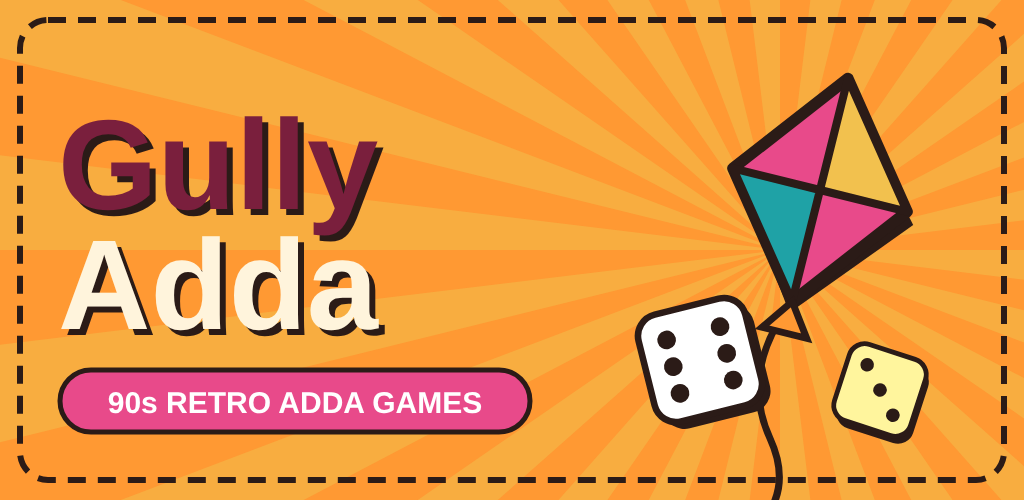
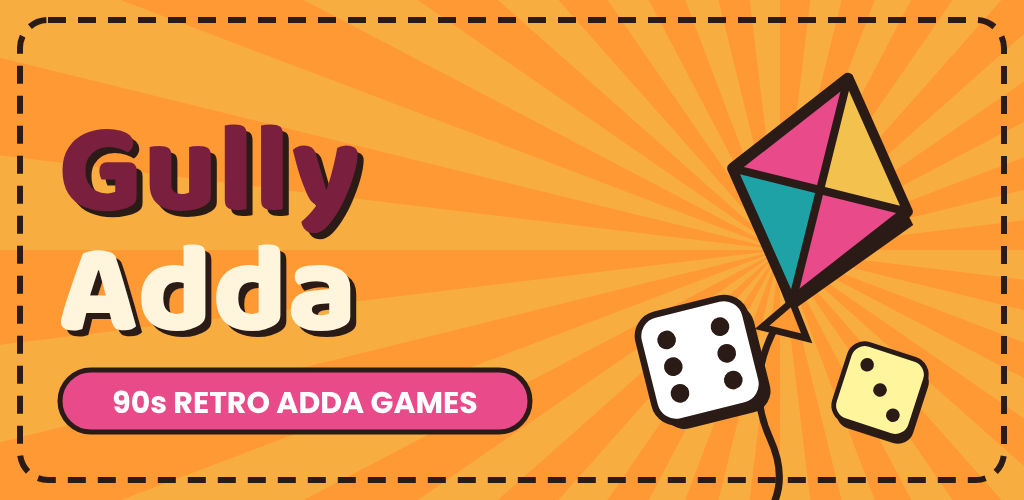
Phase 6: polish, assets, sounds and store graphics
Haptics on key game events, player ID shown for deletion requests,
report retention (12 months) and anonymised reports on deletion, font-
embedded icon/feature graphic, 1080x1920 screenshots captured from the
real app with a regeneration script, and CREDITS.md for every asset.

Claude-Session: https://claude.ai/code/session_01Q38TMgmUsTgVtZDsReXF3P

Changed region(s): [[0.0625, 0.21, 0.375, 0.69], [0.0938, 0.78, 0.4688, 0.84], [0.0938, 0.42, 0.125, 0.45]]

diff --git a/functions/src/index.ts b/functions/src/index.ts
@@ -17,7 +17,7 @@ import { FieldValue, Timestamp, getFirestore, type DocumentReference, type Trans
 import { logger, setGlobalOptions } from 'firebase-functions/v2';
 import { HttpsError, onCall, type CallableRequest } from 'firebase-functions/v2/https';
 import { onSchedule } from 'firebase-functions/v2/scheduler';
-import { CHAT_LIMIT, CODE_ALPHABET, CODE_LENGTH, REGION, ROOM_TTL_MS } from './config';
+import { CHAT_LIMIT, CODE_ALPHABET, CODE_LENGTH, REGION, REPORT_TTL_MS, ROOM_TTL_MS } from './config';
 import {
   GameError, applySettings, chatPolicy, chatReaders, checkRate, heartbeat, joinRoom, kickPlayer, leaveRoom, makeCode,
   newRoom, processGame, startGame, submitAction, viewsFor, type PrivateDoc, type Room,
@@ -285,6 +285,9 @@ export const sweepRooms = onSchedule({ schedule: 'every 1 minutes', secrets: SEC
   await Promise.all(due.docs.map((d) => tickRoom(d.id, null).catch((e) => logger.warn('tick failed', d.id, String(e)))));
   const old = await db.collection('rooms').where('updatedAt', '<', now - ROOM_TTL_MS).limit(50).get();
   await Promise.all(old.docs.map((d) => db.recursiveDelete(d.ref)));
+  // Reports are kept at most 12 months (see privacy policy).
+  const stale = await db.collection('reports').where('at', '<', Timestamp.fromMillis(now - REPORT_TTL_MS)).limit(200).get();
+  await deleteRefs(stale.docs.map((d) => d.ref));
 });
 
 export const sendChat = onCall(CALL_OPTS, (req) =>
@@ -389,6 +392,9 @@ export const deleteMyData = onCall(CALL_OPTS, (req) =>
     await deleteRefs(msgs.docs.map((d) => d.ref));
     const reports = await db.collection('reports').where('reporter', '==', uid).get();
     await deleteRefs(reports.docs.map((d) => d.ref));
+    // Reports about this player stay for safety review, but without their display name.
+    const about = await db.collection('reports').where('target', '==', uid).get();
+    await Promise.all(about.docs.map((d) => d.ref.update({ targetName: '(deleted)' })));
     await db.collection('users').doc(uid).delete();
     await getAuth().deleteUser(uid).catch(() => {});
     return { ok: true };

diff --git a/apps/mobile/src/components/ui.tsx b/apps/mobile/src/components/ui.tsx
@@ -137,14 +137,14 @@ export function Segment<T extends string | number>({ options, value, onChange }:
   );
 }
 
-export function Stepper({ label, value, min, max, step = 1, onChange }: { label: string; value: number; min: number; max: number; step?: number; onChange: (v: number) => void }) {
+export function Stepper({ label, value, min, max, step = 1, onChange, testID }: { label: string; value: number; min: number; max: number; step?: number; onChange: (v: number) => void; testID?: string }) {
   return (
     <View style={styles.settingRow}>
       <Text style={styles.settingLabel}>{label}</Text>
       <View style={styles.row}>
-        <RoundBtn label="−" disabled={value <= min} onPress={() => onChange(Math.max(min, value - step))} />
+        <RoundBtn label="−" disabled={value <= min} onPress={() => onChange(Math.max(min, value - step))} testID={testID ? `${testID}-minus` : undefined} />
         <Text style={styles.stepVal}>{value}</Text>
-        <RoundBtn label="+" disabled={value >= max} onPress={() => onChange(Math.min(max, value + step))} />
+        <RoundBtn label="+" disabled={value >= max} onPress={() => onChange(Math.min(max, value + step))} testID={testID ? `${testID}-plus` : undefined} />
       </View>
     </View>
   );
@@ -166,9 +166,10 @@ export function Toggle({ label, value, onChange }: { label: string; value: boole
   );
 }
 
-export function RoundBtn({ label, onPress, disabled }: { label: string; onPress: () => void; disabled?: boolean }) {
+export function RoundBtn({ label, onPress, disabled, testID }: { label: string; onPress: () => void; disabled?: boolean; testID?: string }) {
   return (
     <Pressable
+      testID={testID}
       accessibilityRole="button"
       accessibilityLabel={label}
       disabled={disabled}

diff --git a/apps/mobile/app/settings.tsx b/apps/mobile/app/settings.tsx
@@ -4,18 +4,19 @@ import { useState } from 'react';
 import { Alert, Linking, Platform } from 'react-native';
 import { Btn, Card, Field, H2, Header, P, Screen, Toggle } from '../src/components/ui';
 import { useSettings } from '../src/lib/settings';
-import { deleteMyOnlineData, onlineConfigured } from '../src/online/firebase';
+import { deleteMyOnlineData, firebase, onlineConfigured } from '../src/online/firebase';
 import { t } from '../src/strings';
 import { colors } from '../src/theme';
 
-const PRIVACY_URL = process.env.EXPO_PUBLIC_PRIVACY_URL ?? 'https://valuetools101.github.io/gully-adda/privacy.html';
-const DELETE_URL = process.env.EXPO_PUBLIC_DELETE_URL ?? 'https://valuetools101.github.io/gully-adda/delete-account.html';
+const PRIVACY_URL = process.env.EXPO_PUBLIC_PRIVACY_URL ?? 'https://valuetools101.github.io/Gully-Adda/privacy.html';
+const DELETE_URL = process.env.EXPO_PUBLIC_DELETE_URL ?? 'https://valuetools101.github.io/Gully-Adda/delete-account.html';
 
 export default function SettingsScreen() {
   const router = useRouter();
   const { settings, update } = useSettings();
   const [busy, setBusy] = useState(false);
   const [msg, setMsg] = useState('');
+  const playerId = onlineConfigured ? (firebase().auth.currentUser?.uid ?? null) : null;
 
   const doDelete = async () => {
     setBusy(true);
@@ -63,6 +64,7 @@ export default function SettingsScreen() {
       </Card>
       <P center style={{ color: colors.inkSoft }}>{t('settings.version', { v: Constants.expoConfig?.version ?? '1.0.0' })}</P>
       <P center style={{ color: colors.inkSoft }}>{t('settings.contact')}</P>
+      {playerId ? <P center style={{ color: colors.inkSoft, fontSize: 12 }}>{t('settings.playerId', { id: playerId })}</P> : null}
     </Screen>
   );
 }

diff --git a/apps/mobile/src/components/game.tsx b/apps/mobile/src/components/game.tsx
@@ -1,7 +1,7 @@
 import type { BaseView, LogEntry, PlayerId, PlayerInfo } from '@gully/engine';
 import { useEffect, useRef, type ReactNode } from 'react';
 import { Pressable, StyleSheet, Text, View } from 'react-native';
-import { feedback, playSound, type SoundName } from '../lib/feedback';
+import { feedback, type HapticKind, type SoundName } from '../lib/feedback';
 import { t } from '../strings';
 import { colors, fonts, radius, retroShadow, seatColors } from '../theme';
 import { Btn, Card, H1, H2, P } from './ui';
@@ -83,7 +83,20 @@ const LOG_SOUNDS: Record<string, SoundName> = {
   'mafia.win.mafia': 'win',
 };
 
-/** Plays a sound for each new log entry (works for local and online views). */
+const LOG_HAPTICS: Record<string, HapticKind> = {
+  'ludo.captured': 'heavy',
+  'npat.stop': 'heavy',
+  'mafia.killed': 'warning',
+  'mafia.eliminated': 'warning',
+  'rmcs.escaped': 'warning',
+  'game.winner': 'success',
+  'game.over': 'success',
+  'rmcs.caught': 'success',
+  'mafia.win.village': 'success',
+  'mafia.win.mafia': 'success',
+};
+
+/** Plays a sound (and haptic) for each new log entry (works for local and online views). */
 export function useLogSounds(log: LogEntry[], version: number): void {
   const last = useRef<number | null>(null);
   const seen = useRef(0);
@@ -98,7 +111,7 @@ export function useLogSounds(log: LogEntry[], version: number): void {
     const fresh = log.slice(Math.min(seen.current, log.length));
     seen.current = log.length;
     const key = fresh.map((e) => e.key).reverse().find((k) => LOG_SOUNDS[k]);
-    if (key) playSound(LOG_SOUNDS[key] as SoundName);
+    if (key) feedback(LOG_SOUNDS[key] as SoundName, LOG_HAPTICS[key] ?? 'tap');
   }, [log, version]);
 }
 

diff --git a/apps/mobile/app/setup/[game].tsx b/apps/mobile/app/setup/[game].tsx
@@ -77,12 +77,12 @@ export default function Setup() {
       {mode !== 'online' ? (
         <Card>
           {min !== max ? (
-            <Stepper label={`👥 ${t('setup.players')}`} value={total} min={min} max={max} onChange={(v) => { setTotal(v); setHumans((h) => Math.min(h, v)); }} />
+            <Stepper testID="players" label={`👥 ${t('setup.players')}`} value={total} min={min} max={max} onChange={(v) => { setTotal(v); setHumans((h) => Math.min(h, v)); }} />
           ) : (
             <P>👥 {t('home.playersExact', { n: min })}</P>
           )}
           {def.meta.recommendedMin && total < def.meta.recommendedMin ? <P style={{ color: colors.danger }}>{t('setup.recommended', { n: def.meta.recommendedMin })}</P> : null}
-          {mode === 'pass' ? <Stepper label={`🙋 ${t('setup.humans')}`} value={humanCount} min={1} max={total} onChange={setHumans} /> : null}
+          {mode === 'pass' ? <Stepper testID="humans" label={`🙋 ${t('setup.humans')}`} value={humanCount} min={1} max={total} onChange={setHumans} /> : null}
           <P>🤖 {t('setup.bots.count')}: {botCount}</P>
           {botCount > 0 ? (
             <View style={{ gap: 6 }}>

diff --git a/apps/mobile/src/games/MafiaBoard.tsx b/apps/mobile/src/games/MafiaBoard.tsx
@@ -36,7 +36,7 @@ function PeopleGrid({ view }: { view: MafiaView }) {
             <Text style={st.personEmoji}>{alive ? (role && p.id !== view.me ? ROLE_EMOJI[role] : '🙂') : '👻'}</Text>
             <Text style={st.personName} numberOfLines={1}>
               {p.name}
-              {p.id === view.me ? ` (${t('common.you')})` : ''}
+              {p.id === view.me && p.name !== t('setup.you') ? ` (${t('common.you')})` : ''}
             </Text>
             {!alive && role ? <Text style={st.personRole}>{t(`mafia.${role}`)}</Text> : null}
             {view.voted.includes(p.id) ? <Text style={st.personRole}>🗳 {t('mafia.voted')}</Text> : null}

diff --git a/functions/src/config.ts b/functions/src/config.ts
@@ -11,3 +11,5 @@ export const ROOM_TTL_MS = 24 * 60 * 60 * 1000;
 export const MAX_AUTO_STEPS = 400;
 export const CODE_ALPHABET = 'ABCDEFGHJKLMNPQRSTUVWXYZ23456789';
 export const CODE_LENGTH = 6;
+/** Moderation reports are deleted after this long. */
+export const REPORT_TTL_MS = 365 * 24 * 60 * 60 * 1000;

diff --git a/apps/mobile/src/strings/en.ts b/apps/mobile/src/strings/en.ts
@@ -307,6 +307,7 @@ export const en = {
   'settings.credits': 'Credits & licences',
   'settings.version': 'Version {v}',
   'settings.contact': 'Contact: valuetools101@gmail.com',
+  'settings.playerId': 'Player ID (for deletion requests): {id}',
 
   // House rules
   'house.title': 'House rules',

diff --git a/CREDITS.md b/CREDITS.md
@@ -1,0 +1,25 @@
+# Credits and licences
+
+Every asset that ships in the app or on the store listing is listed here.
+
+| Asset | Where | Source | Licence |
+|---|---|---|---|
+| Baloo 2 font (700, 800) | app headings, store art | Ek Type via Google Fonts, npm `@expo-google-fonts/baloo-2` | SIL Open Font License 1.1 |
+| Poppins font (400, 600, 700) | app body text, store art | Indian Type Foundry via Google Fonts, npm `@expo-google-fonts/poppins` | SIL Open Font License 1.1 |
+| Sound effects (`apps/mobile/assets/sounds/*.wav`) | app | Original, generated by `apps/mobile/scripts/generate-sounds.mjs` | CC0 (made for this project) |
+| App icon, adaptive icon, splash, favicon | app | Original vector art in `store/scripts/art.mjs`, rendered by `generate-graphics.mjs` | CC0 (made for this project) |
+| Feature graphic, 512 icon | store | Same as above | CC0 |
+| Ludo board, dice, tokens, Dots grid, chits | app | Original SVG drawn in code (`apps/mobile/src/games/*`) | CC0 (made for this project) |
+| Emoji (👑 🕶 🎲 etc.) | app UI | Rendered with the phone's system emoji font; no emoji images are bundled | n/a |
+| Store screenshots | store | Captured from the real app by `store/scripts/screenshots.mjs` | CC0 |
+
+## Why no Kenney / OpenMoji / Freesound files?
+The build machine could not reach kenney.nl or Google Fonts directly (fonts came from npm instead), so sounds and art were made from scratch. They are fine to ship. Optional upgrades, if you want them later:
+- Replace any `assets/sounds/*.wav` with a CC0 sound of the same name from Kenney "Interface Sounds" / "Casino Audio" (kenney.nl, CC0) and add a row above.
+- To bundle OpenMoji (CC BY-SA 4.0, needs attribution) or Twemoji graphics (CC BY 4.0) instead of system emoji, add them under `apps/mobile/assets/emoji/` and credit them here.
+
+## Open-source libraries
+Expo / React Native (MIT), Firebase JS SDK and Admin SDK (Apache-2.0), LiveKit client and server SDKs (Apache-2.0), react-native-svg (MIT) and others listed in each `package.json`.
+
+## Trademarks
+Game names used are traditional/generic. No brand names, logos or trade dress of commercial board games are used.
